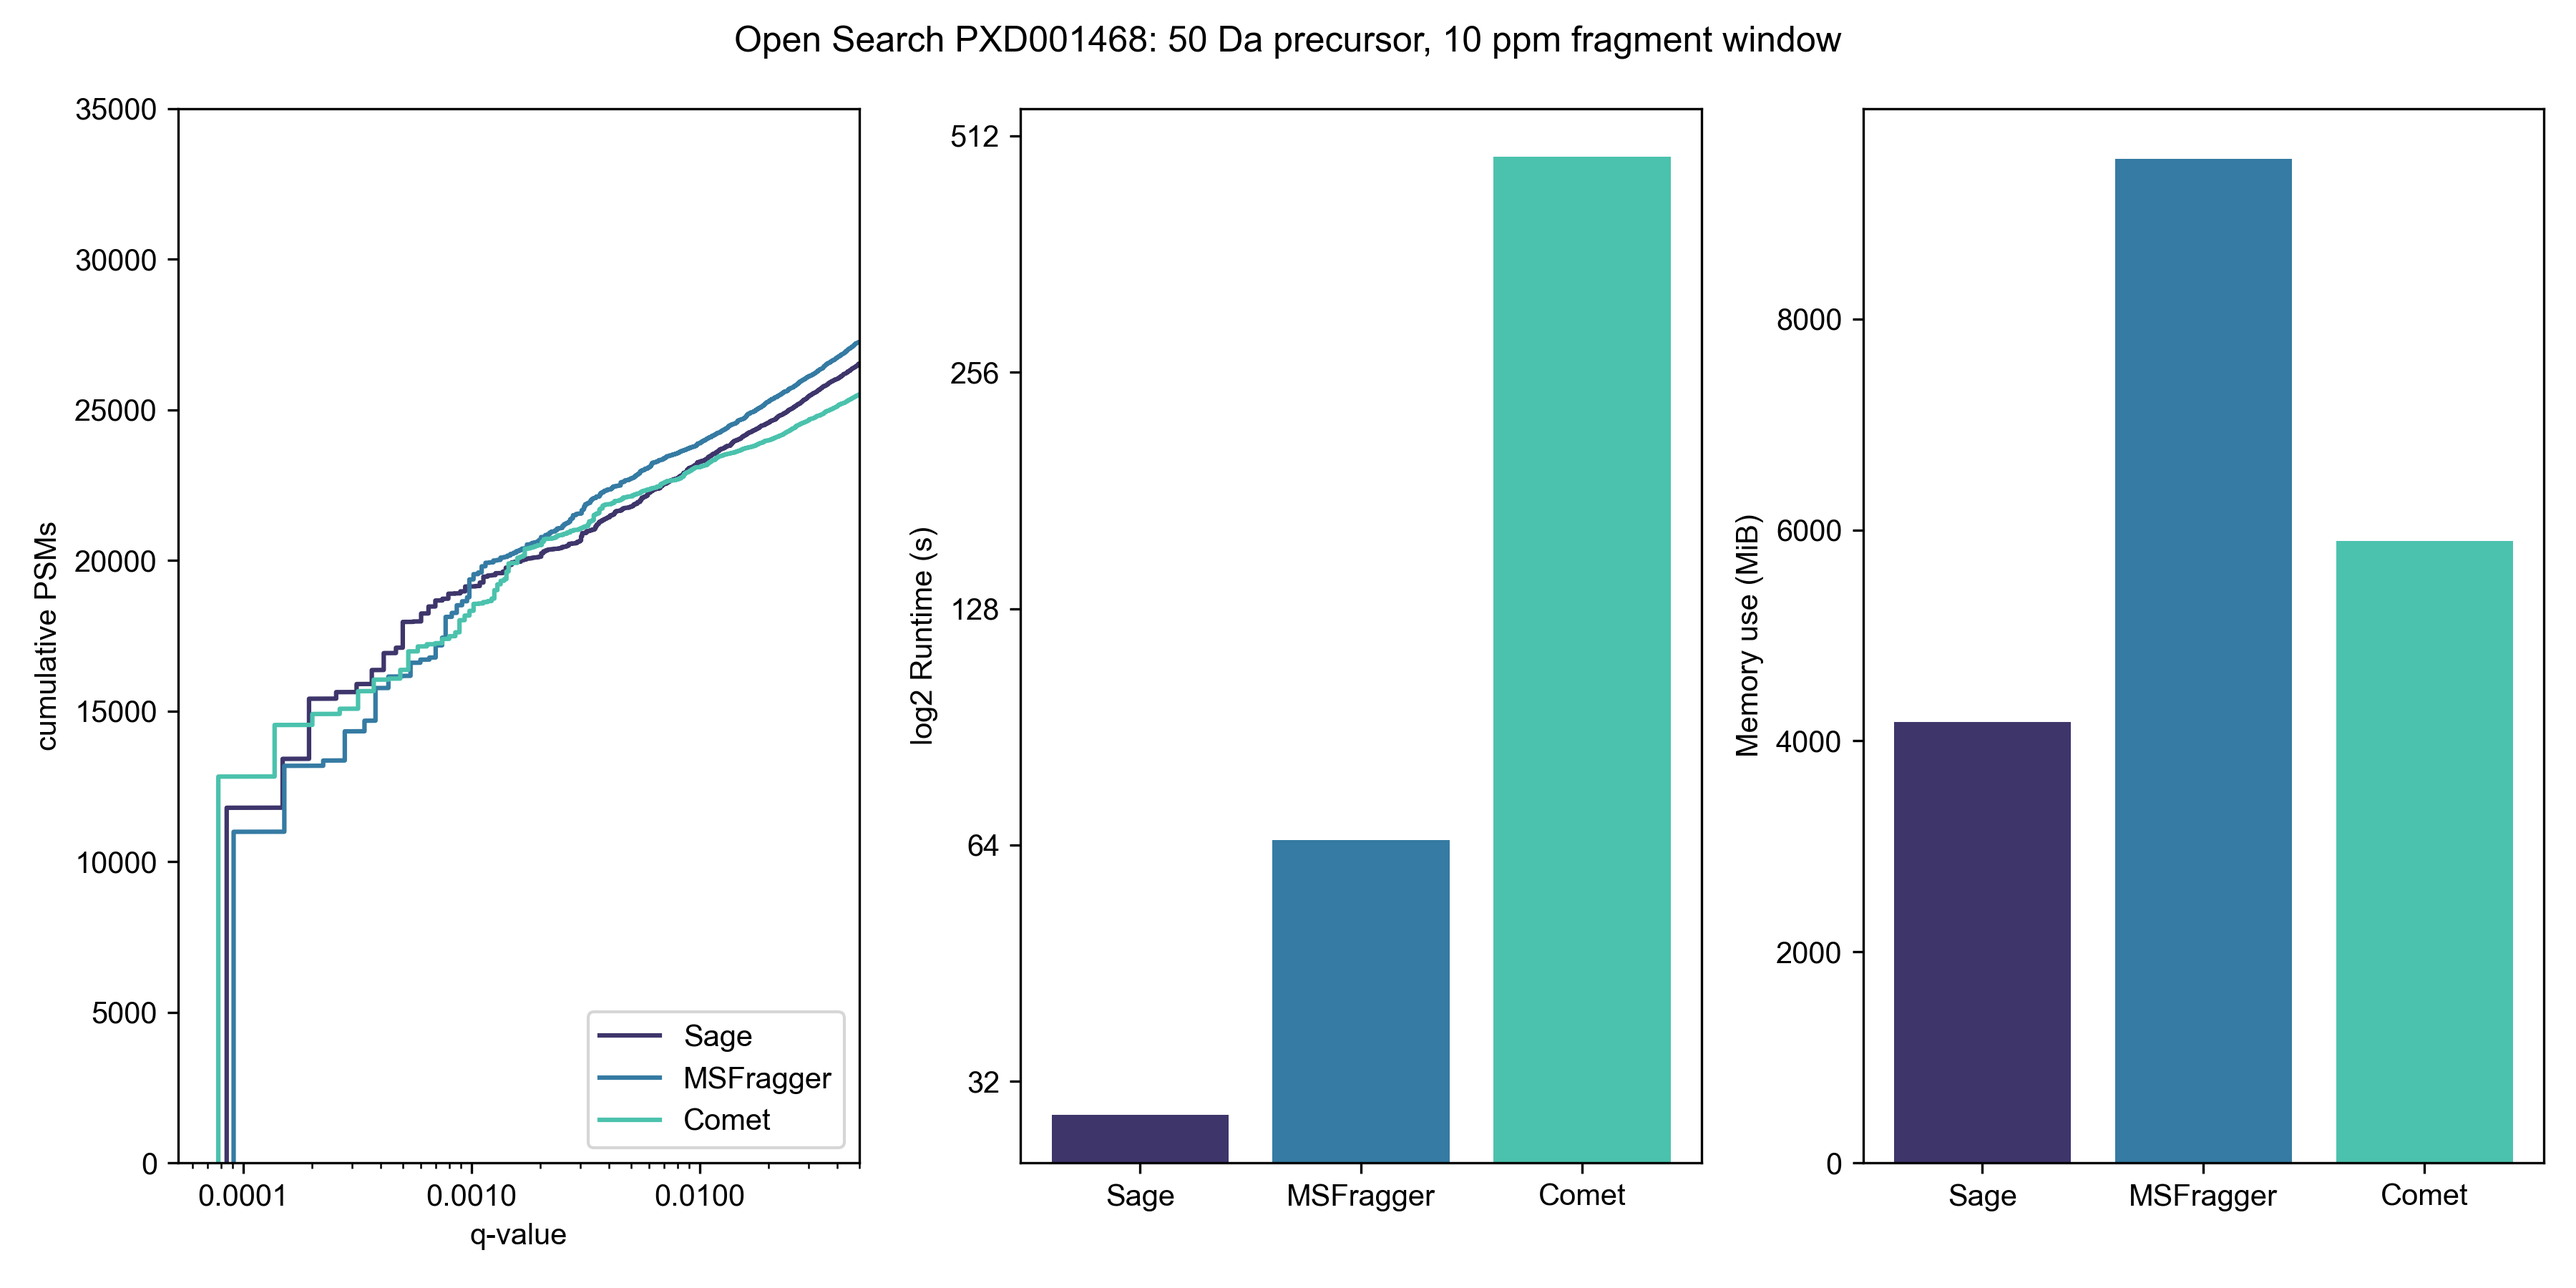
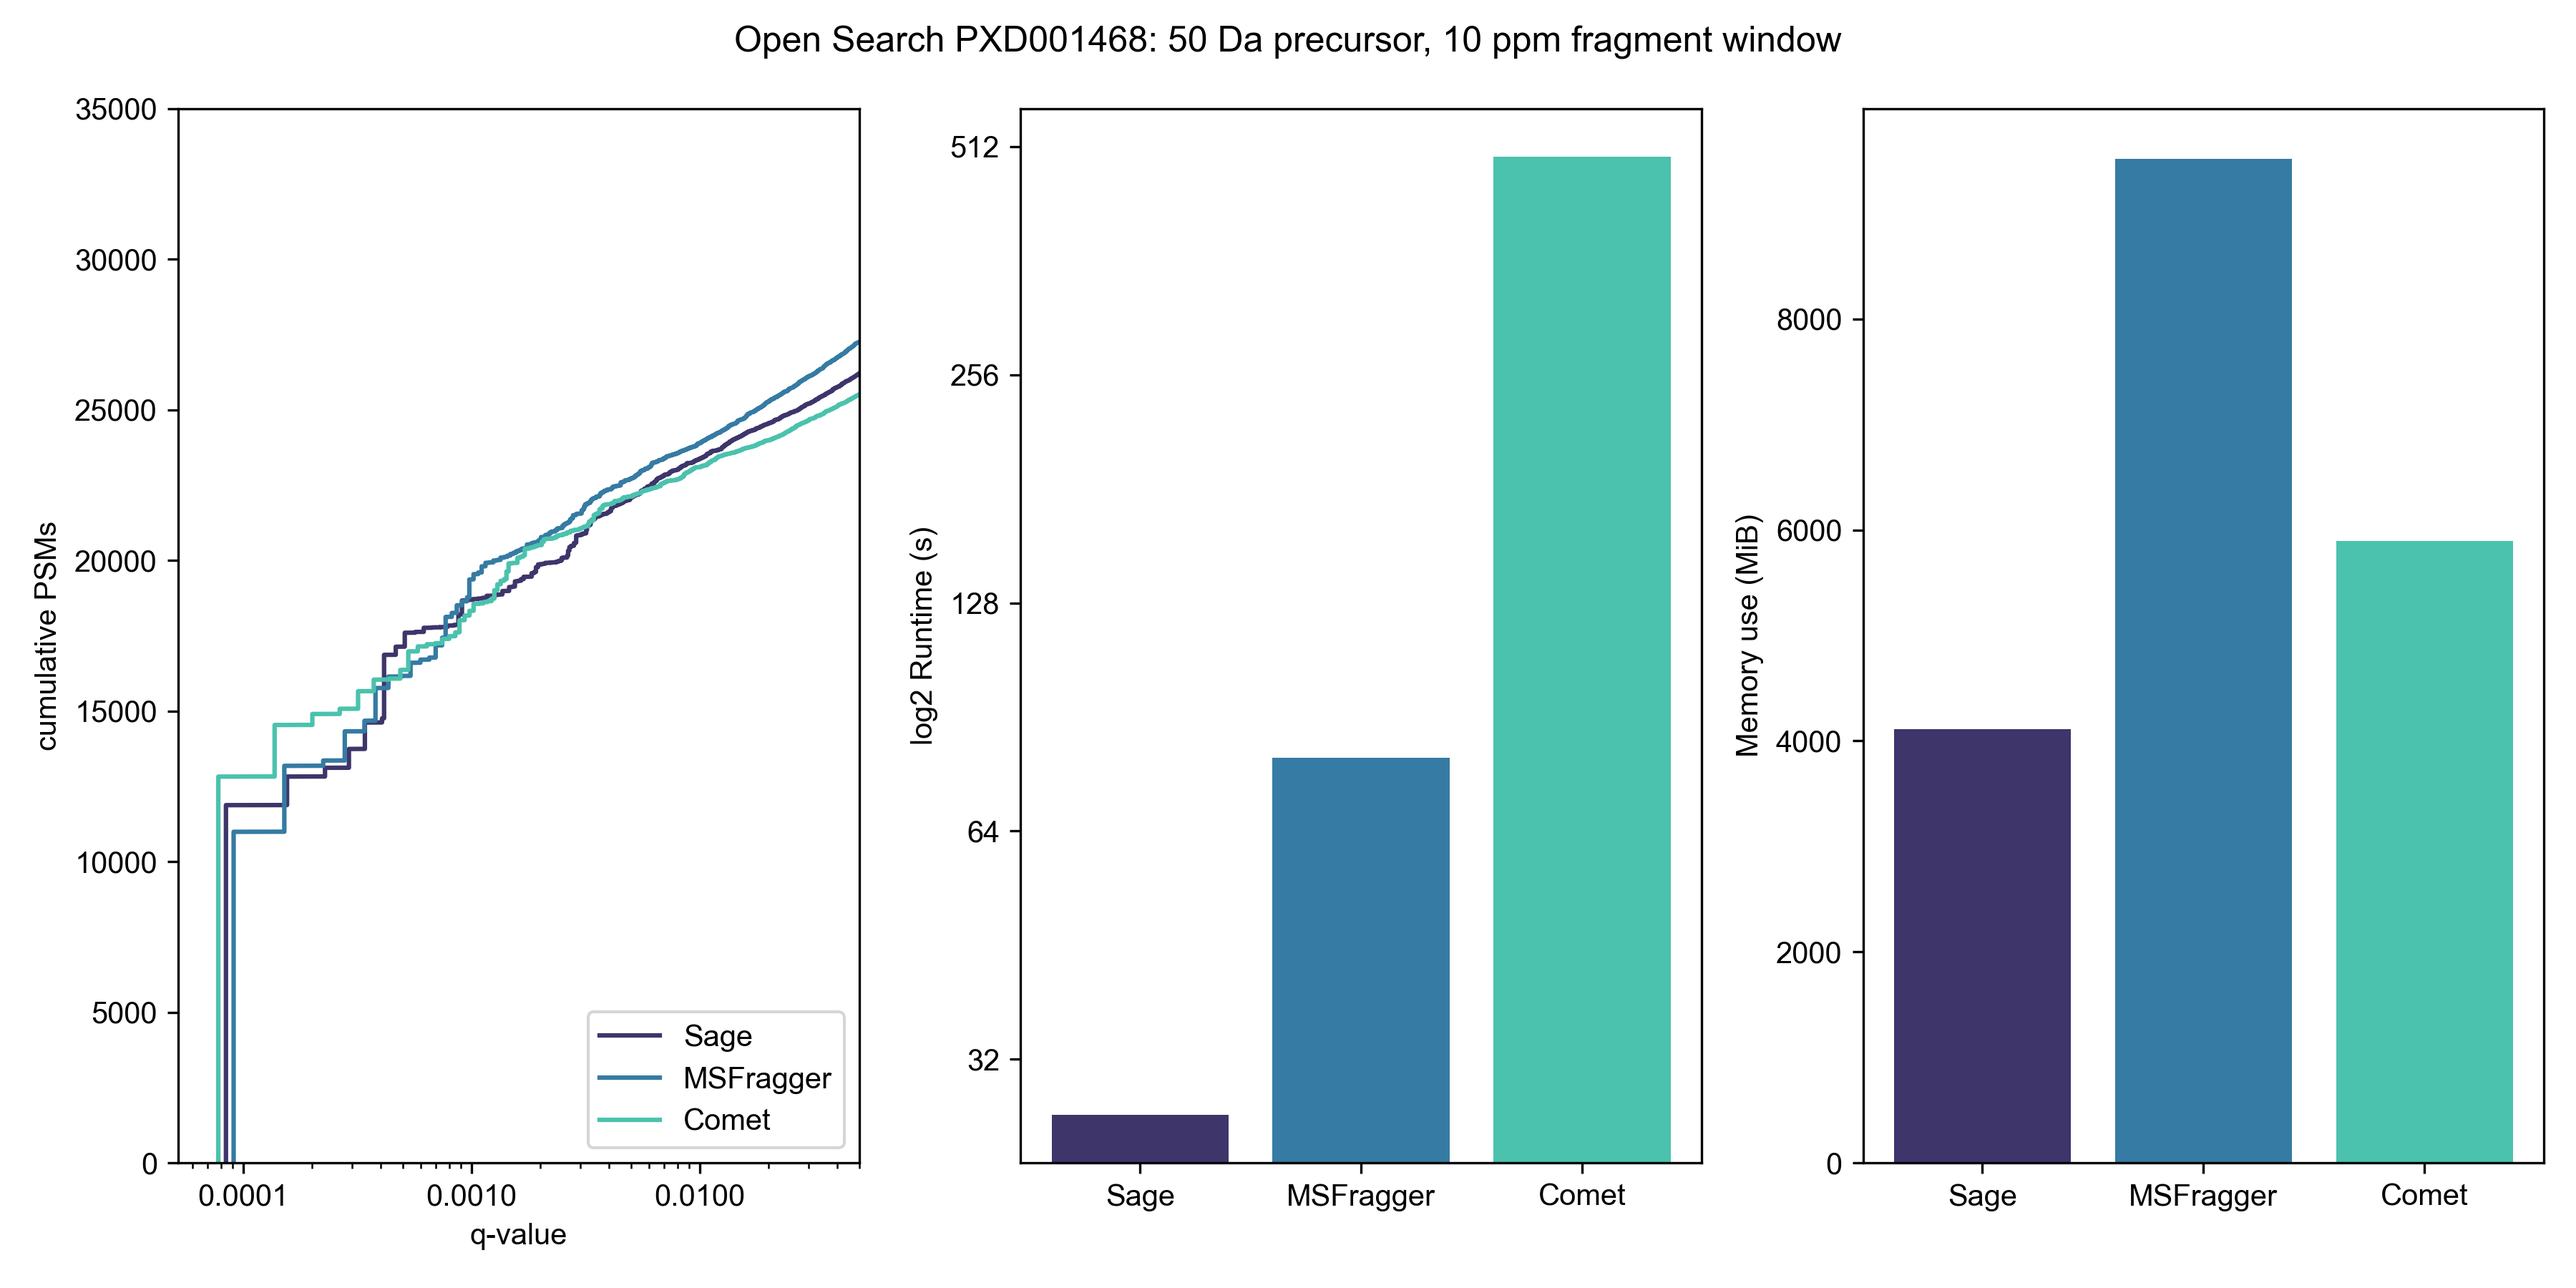
Update benchmarks, add RT section

diff --git a/docs/index.html b/docs/index.html
@@ -155,6 +155,10 @@
             reformulation of database searching, and it captured my imagination enough that I had to try my hand at
             implementing it.</p>
 
+            <p><strong>NB:</strong> John Yates brought a very cool paper to my attention: a search engine called <a href="https://t.co/vv0XcaCqM9">Interrogator</a> that presented a fragment-indexing approach in 2005!
+              Yet another closed source proteomics tool...  perhaps one reason it never caught on?
+            </p>
+
         </section>
         <section class="section">
           <h2><a id="data-structure"></a>Fragment Index data structure</h2>
@@ -316,9 +320,11 @@
             a typical TMT search
             and identifies a similar number of PSMs at 1% FDR.
           </p>
-          <p>Sage is so fast (~2500 PSMs/cpu-second for a narrow search) that the computational cost of searching becomes irrelevant - you could
+          <p>Sage is so fast (~2500 PSMs/cpu-second for a narrow search) that the computational cost of searching
+            becomes irrelevant - you could
             re-process all of PRIDE's annotated PSMs
-            (580,917,172 at current count) using Sage for less than $3, assuming you had the bandwidth and disk IO to keep the
+            (580,917,172 at current count) using Sage for less than $3, assuming you had the bandwidth and disk IO to
+            keep the
             engine fed!
           </p>
 
@@ -429,28 +435,33 @@
             <thead>
               <tr>
                 <th>Engine</th>
-                <th>Runtime</th>
+                <th>Runtime*</th>
                 <th>PSMs at 1% FDR</th>
               </tr>
             </thead>
             <tbody>
               <tr>
                 <td>Sage</td>
-                <td>113 s</td>
+                <td>109 s</td>
                 <td>24,432</td>
               </tr>
               <tr>
                 <td><a href="#chimera">Sage Chimera</a></td>
-                <td>171 s</td>
-                <td><strong>28,049</strong></td>
+                <td>164 s</td>
+                <td><strong>28,724</strong></td>
               </tr>
               <tr>
                 <td>MSFragger</td>
-                <td>185 s</td>
+                <td>225 s</td>
                 <td>25,534</td>
               </tr>
             </tbody>
           </table>
+          <figcaption>* Including FDR refinement (mokapot for other engines - 15s, or Sage's built-in ML models)
+          </figcaption>
+
+          <p>Note that Sage's LDA is capable of scoring & reporting PSMs per spectra, even if chimeric searching is
+            turned off - this yields some <strong>28,367</strong> under 1% FDR in the same 109 second time frame</p>
 
           <p>Don't think that you need a beefy c5ad.8xlarge instance to go fast - I can complete the same 600 Da open
             search on my <strong>MacBook M1 Air</strong> (8 cores, 16 GB RAM) in ~7.5 minutes!</p>
@@ -591,7 +602,8 @@
           <img src="chimera_rt.png">
         </section>
         <section class="section">
-          <h2><a id="lda"></a>Linear Discriminant Analysis</h2>
+          <!-- <h2><a id="lda"></a>Linear Discriminant Analysis</h2> -->
+          <h2><a id="lda"></a>Integrated Machine Learning</h2>
           Most database search algorithms compute multiple scores for a given peptide-spectrum match (e.g. XCorr, Delta
           CN).
           In the olden days (especially before target-decoy competition), mass spectrometrists would apply separate
@@ -600,7 +612,8 @@
           <p>
             Several post-searching approaches (Percolator, PeptideProphet, etc) have been described that utilize machine
             learning or Bayesian expectation-maximization to
-            combine multiple features in order to better refine score cutoffs - this yields more PSMs for final analysis when
+            combine multiple features in order to better refine score cutoffs - this yields more PSMs for final analysis
+            when
             compared to simple filtering off of just 1 score feature (XCorr/etc).
           </p>
           <p>
@@ -639,6 +652,10 @@
                 <td>Poisson</td>
                 <td>Log probability of matching exactly N fragment peaks</td>
               </tr>
+              <tr>
+                <td>Delta RT</td>
+                <td>Difference between experimental & predicted retention time</td>
+              </tr>
             </tbody>
           </table>
 
@@ -654,7 +671,8 @@
             Sage (see graph above) - this allows us to find the coefficient for each feature that provides the best
             separation between our known-decoys and targets.
             Unfortunately, Rust doesn't have a strong selection of ML libraries, so I had to built it out completely
-            from scratch - starting with a basic linear algebra module. As a side benefit, I now understand what a eigenvector
+            from scratch - starting with a basic linear algebra module. As a side benefit, I now understand what a
+            eigenvector
             is and how to perform Gauss-Jordan elimination!
           </p>
           <p>
@@ -668,6 +686,14 @@
           </p>
           <img src="PEP.png" class="large">
           <figcaption>Sage accurately & rapidly computes FDR and PEP</figcaption>
+
+          <p>Sage also comes with a built-in (and simple) model for predicting peptide retention time. We one-hot encode
+            peptide sequences, and perform linear regression to determine retention coefficients for each amino acid.
+            This generally corresponds to a 1-3% boost in PSM identifications, but it can be even more beneficial for chimeric searching, or if `report_psms` is set to a value higher than 1 (reporting multiple PSMs for each MS2 spectra).
+          </p>
+          <img src="rt_model.png">
+          <figcaption>Sage fits an additive <a href="https://pubs.acs.org/doi/10.1021/ac070262k">retention time
+              model</a> for additional features</figcaption>
         </section>
         <section class="section">
           <h2><a id="tmt"></a>MS3-TMT Quantification</h2>
